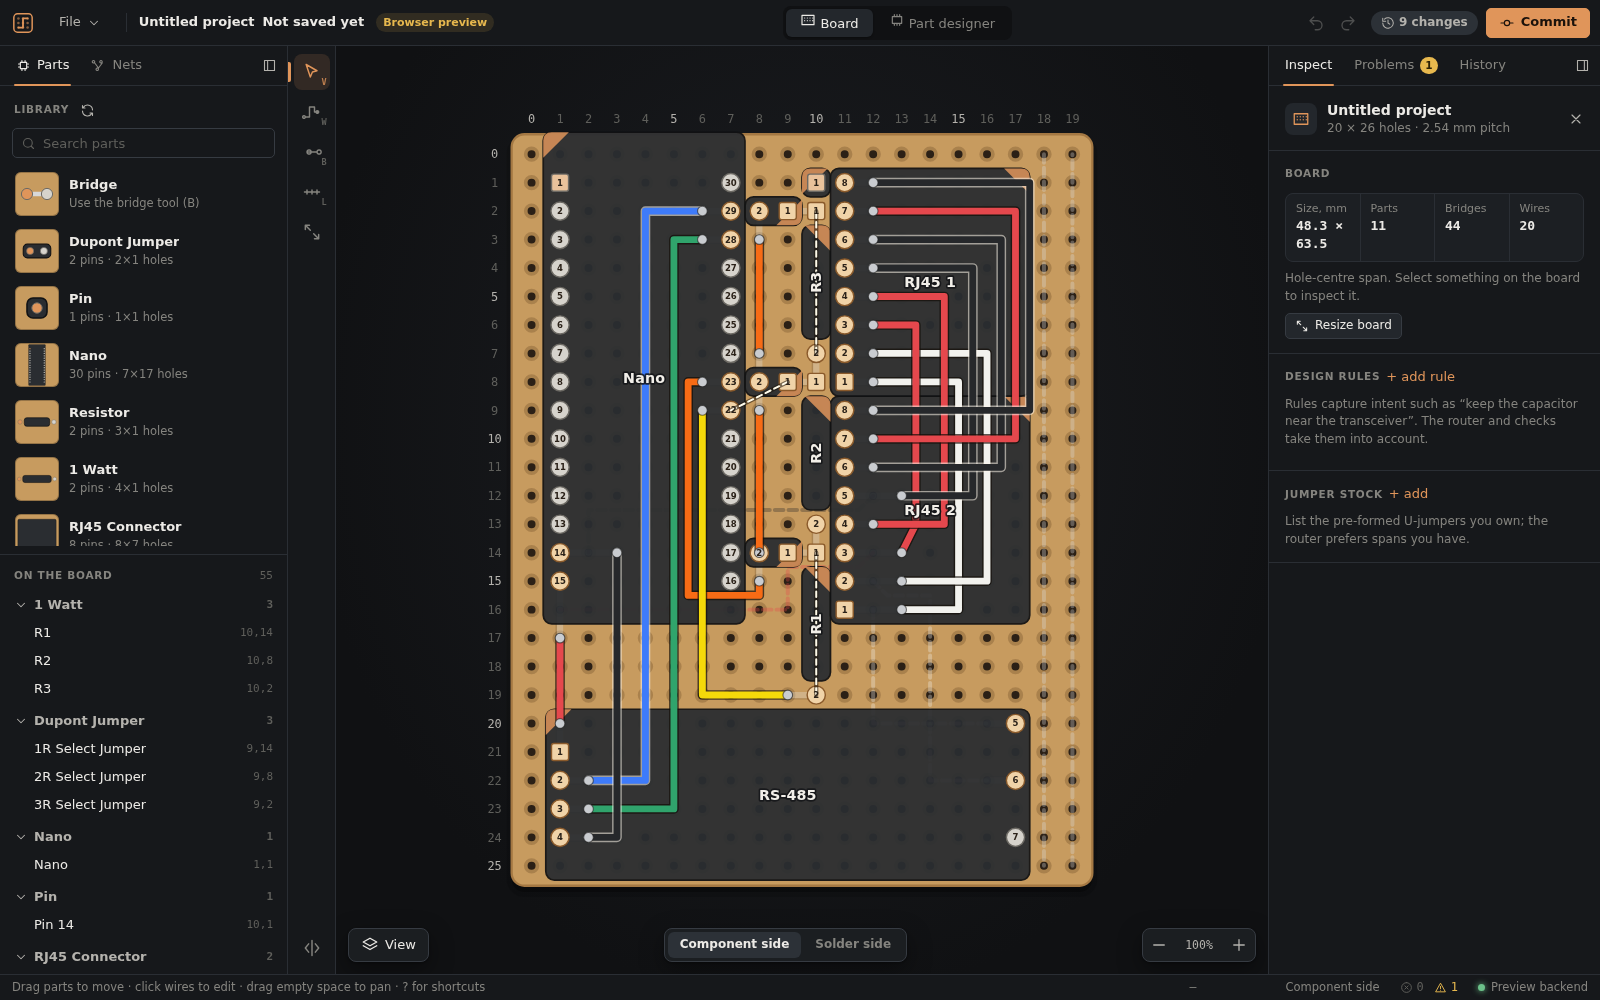
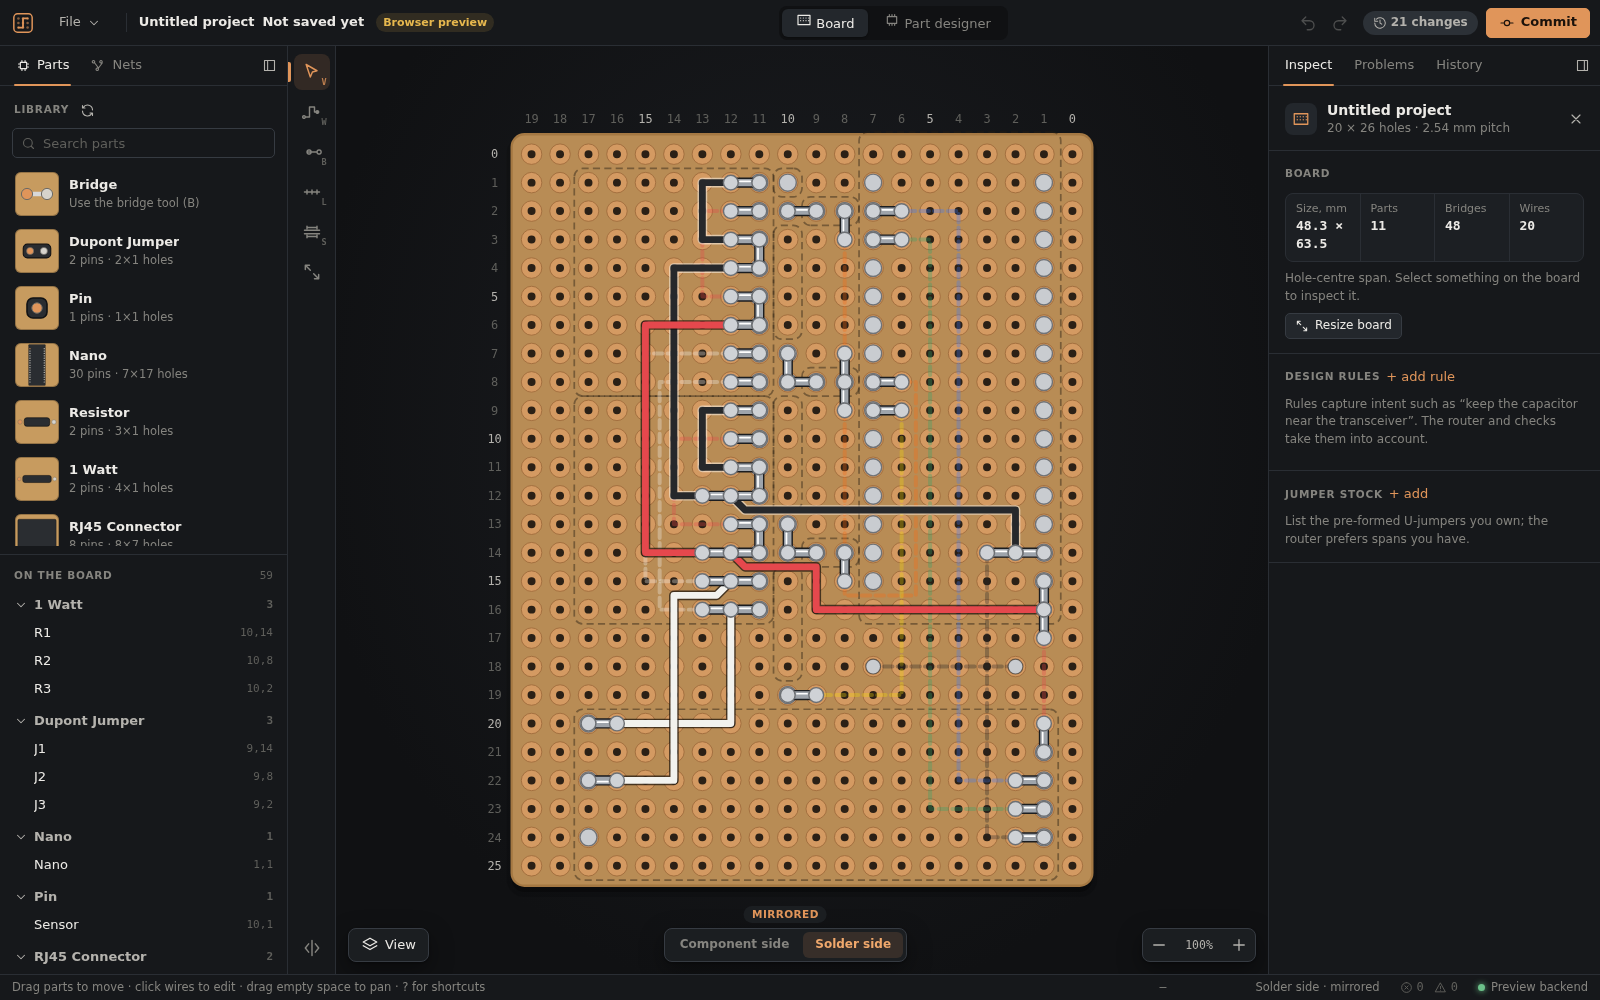
docs: show the solder side in the README screenshot
Retake the Nano RS-485 screenshot from the current project, flipped to
the mirrored solder side so the bridges and wiring are visible.

diff --git a/README.md b/README.md
@@ -10,7 +10,7 @@ deterministic automatic routing, and local MCP access to the active desktop
 working copy from Codex or Claude Code. Milestone 6 (assembly planning) has
 started with printable 1:1 wire cut guides and bending templates.
 
-![Perfboard Designer showing an Arduino Nano RS-485 board with two RJ45 connectors](docs/screenshots/nano-rs485-board.png)
+![Perfboard Designer showing the solder side of an Arduino Nano RS-485 board with two RJ45 connectors](docs/screenshots/nano-rs485-board.png)
 
 ## Prerequisites
 
